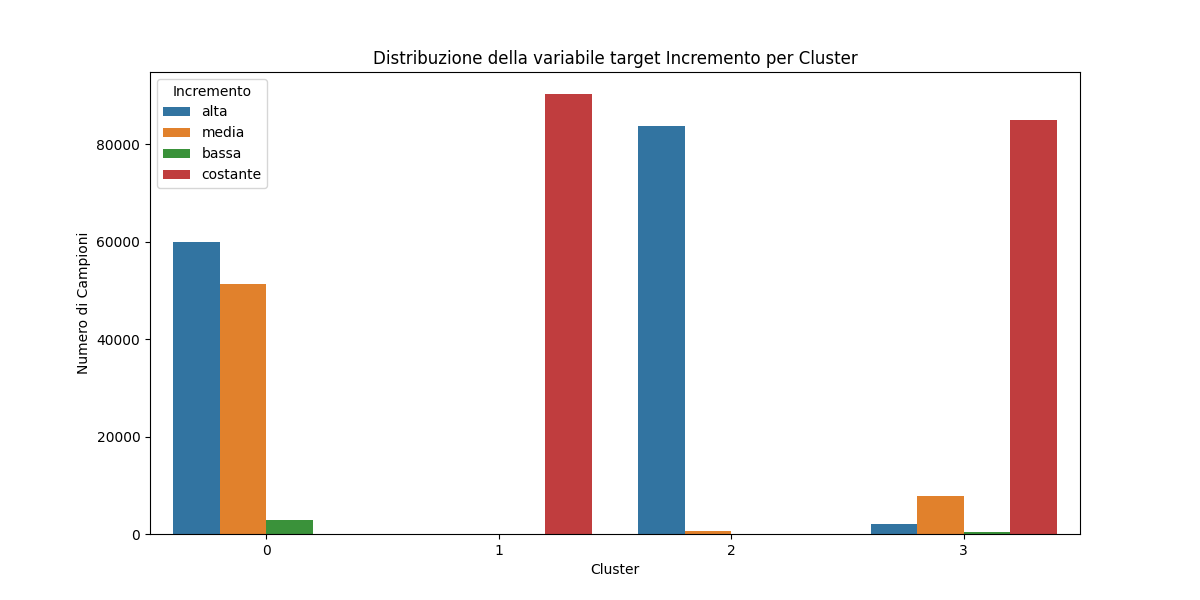
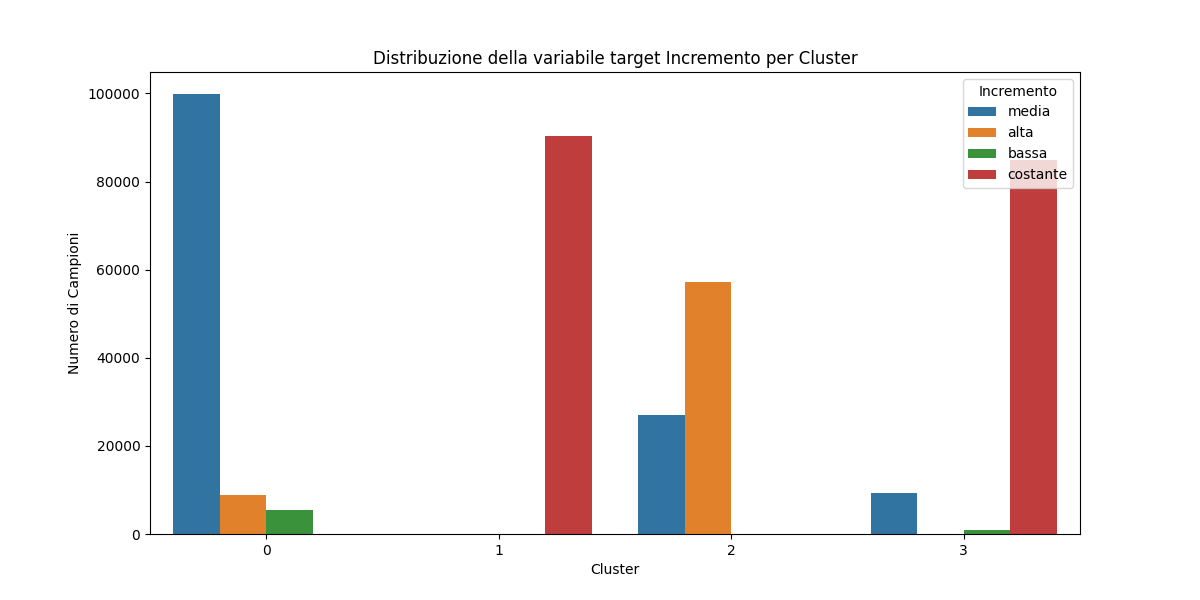
Modifiche valori incremento

diff --git a/clustering/clustering_execution.py b/clustering/clustering_execution.py
@@ -60,7 +60,7 @@ def transform_and_preprocess_data(df: pd.DataFrame, categorical_features: list, 
     for col in ['data_contatto', 'data_erogazione']:
         if col in df.columns:
             df[col] = pd.to_datetime(df[col], errors='coerce', utc=True)
-            df[col] = df[col].astype(int) // 10 ** 9  # Convert to UNIX timestamp safely
+            df[col] = df[col].astype('int64') // 10 ** 9  # Convert to UNIX timestamp safely
 
     # Applica LabelEncoder a ciascuna colonna categorica
     for col in categorical_features:

diff --git a/feature_extraction/extract_increment.py b/feature_extraction/extract_increment.py
@@ -78,11 +78,11 @@ def classifica_incremento(percentuale):
     Returns:
     str: La classificazione dell'incremento ('alta', 'media', 'costante', 'bassa').
     """
-    if percentuale > 45:
+    if percentuale > 70:
         return 'alta'
-    elif  25< percentuale <= 45:
+    elif 35 < percentuale <= 70:
         return 'media'
-    elif 0<= percentuale <= 25:
+    elif 0 <= percentuale <= 35:
         return 'bassa'
     elif percentuale < 0:
         return 'costante'

diff --git a/run.py b/run.py
@@ -42,7 +42,7 @@ df = df[df['year'] != 2019]
 df.to_parquet('datasets/CMA.parquet', index=False)
 
 # Eseguo il clustering
-df_clustered, cluster_labels, svd_transformed_data = execute_clustering(df, n_clusters=4)
+df_clustered, cluster_labels, svd_transformed_data = execute_clustering(df,n_clusters=4)
 
 # Visualizzazione del numero di righe e colonne del dataset
 num_rows, num_columns = df.shape
